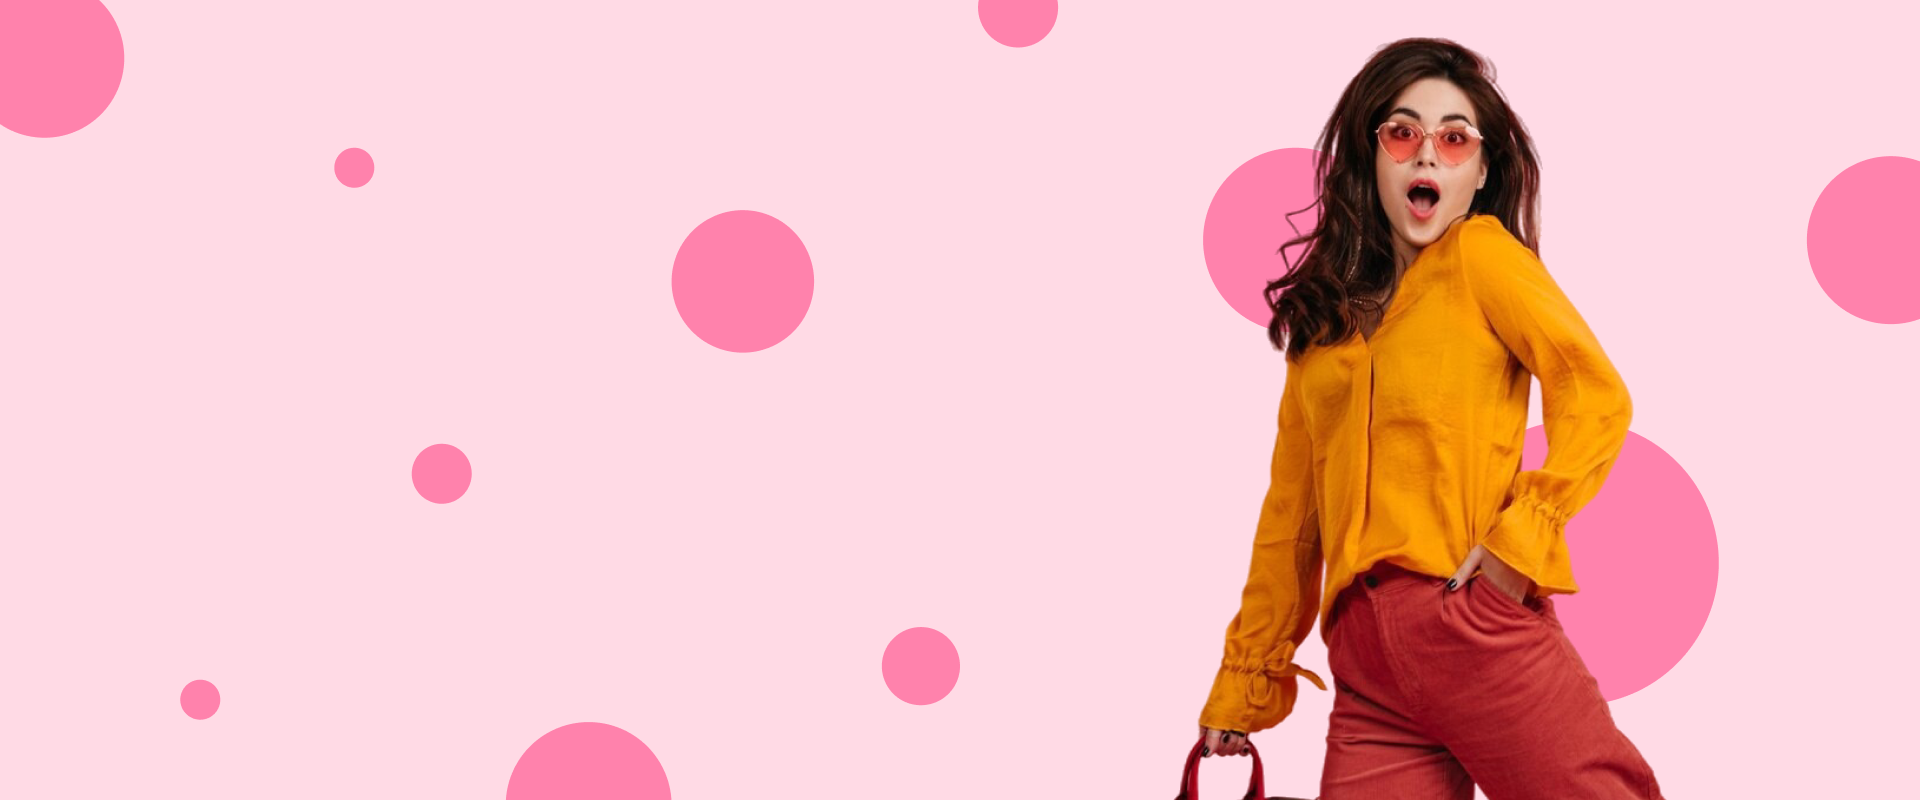
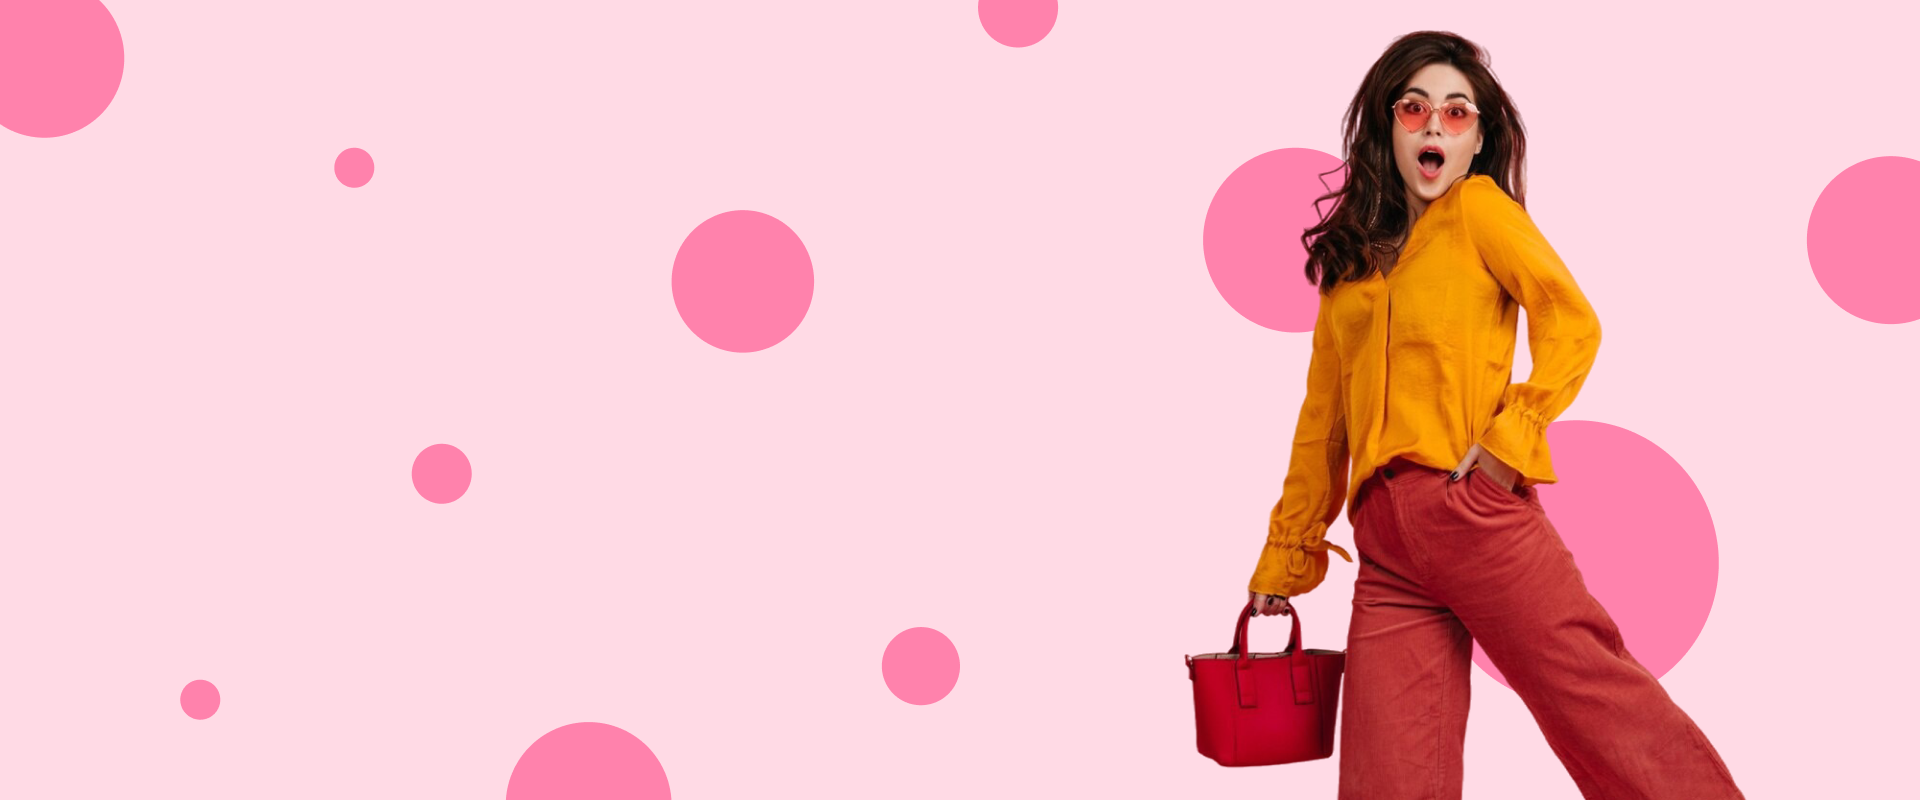
image scroll

Changed region(s): [[0.5938, 0.0312, 0.9062, 1.0]]

diff --git a/Roselle/style.css b/Roselle/style.css
@@ -10,7 +10,7 @@
   --button-text-color: #ffffff;
   --border-color: #eedce3;
 
-  --border-radius-md: 5px;
+  --border-radius-sm: 5px;
 
   --transition-timing: 0.3s ease;
 }
@@ -26,6 +26,7 @@ body {
   font-family: "Poppins", sans-serif;
   overscroll-behavior: contain;
   background-color: var(--bg-color);
+  scroll-behavior: smooth;
 }
 a {
   text-decoration: none;
@@ -47,8 +48,11 @@ button {
   align-items: center;
   justify-content: space-between;
   border-bottom: 1px solid var(--border-color);
-  padding: 1.5rem 6rem;
+  padding: 1rem 6rem;
   width: 100%;
+}
+.header-main {
+  padding: 1.5rem 6rem;
 }
 .social-icons {
   display: flex;
@@ -62,7 +66,7 @@ button {
 }
 .icons ion-icon:hover {
   color: var(--link-color);
-  transform: scale(1.1);
+  transform: scale(1.2);
 }
 .header-alert {
   text-transform: uppercase;
@@ -77,10 +81,14 @@ button {
   border: none;
   color: var(--paragraph-color);
   padding: 5px;
+  background-color: transparent;
   transition: all var(--transition-timing);
+  margin-left: 0.5rem;
+  outline: none;
 }
-.select-container select:hover {
-  color: var(--text-color);
+.select-container select:hover,
+select:focus {
+  color: var(--primary-color);
 }
 
 .logo {
@@ -91,11 +99,13 @@ button {
 }
 .search-feild {
   border: 1px solid var(--border-color);
-  padding: 1rem;
-  border-radius: var(--border-radius-md);
-  width: 20rem;
+  padding: 0.8rem 1rem;
+  border-radius: var(--border-radius-sm);
+  width: 40rem;
   color: var(--paragraph-color);
-  outline: none;
+}
+.search-feild:focus {
+  outline: 1px solid var(--primary-color);
 }
 .search-icon {
   position: absolute;
@@ -133,4 +143,99 @@ button {
   font-size: 0.75rem;
   font-weight: 700;
   color: var(--button-text-color);
+}
+main {
+  margin: 2rem;
+}
+.category-dropdown {
+  display: flex;
+  align-items: center;
+  justify-content: space-between;
+  padding: 0 12rem;
+}
+.category-links {
+  color: var(--paragraph-color);
+  font-weight: 600;
+  text-transform: uppercase;
+}
+
+.image-scroll-section {
+  margin: 2rem 0;
+  overflow-x: auto;
+  scroll-snap-type: x mandatory;
+  -webkit-overflow-scrolling: touch;
+}
+
+.image-container {
+  width: 1200px;
+  margin: 0 auto;
+  display: flex;
+  overflow-x: auto;
+  scroll-snap-type: x mandatory;
+  gap: 2rem;
+}
+
+.image-card {
+  display: flex;
+  align-items: center;
+  height: 30rem;
+  border-radius: 15px;
+  flex: 0 0 100%;
+  scroll-snap-align: start;
+  background-size: cover;
+  background-repeat: no-repeat;
+}
+.card-content {
+  width: 30rem;
+  margin-left: 5rem;
+}
+
+.card-content h3 {
+  font-size: 1.5rem;
+  color: var(--main-color);
+  font-weight: 500;
+  letter-spacing: 2px;
+}
+.card-content h2 {
+  font-size: 3.5rem;
+  color: var(--text-color);
+  text-transform: uppercase;
+  line-height: 1;
+  margin-top: 0.5rem;
+}
+.card-content p {
+  font-size: 1.1rem;
+  font-weight: 500;
+  color: var(--paragraph-color);
+  margin-top: 0.5rem;
+}
+.price {
+  font-size: 1.5rem;
+  font-weight: 700;
+}
+.image-card-1 {
+  background-image: url("./images/hero-bg.png");
+}
+.image-card-2 {
+  background-image: url("./images/hero-bg-2.png");
+}
+.perfume-heading {
+  color: var(--button-text-color) !important;
+}
+.perfume-price {
+  color: var(--border-color) !important;
+}
+.image-card-4 {
+  background-image: url("./images/hero-bg-4.png");
+}
+.shop-btn {
+  padding: 0.6rem 1.4rem;
+  color: var(--button-text-color);
+  background-color: var(--link-color);
+  border-radius: 5px;
+  border: none;
+  margin-top: 0.7rem;
+  font-weight: 700;
+  font-size: 1rem;
+  text-transform: uppercase;
 }

diff --git a/Roselle/index.html b/Roselle/index.html
@@ -50,8 +50,8 @@
         </div>
         <div class="select-container">
           <select name="currency" id="">
-            <option value="rupee">Rupee ₹</option>
             <option value="dollar">USD $</option>
+            <option value="rupee">Rupee ₹</option>
           </select>
           <select name="language" id="">
             <option value="english">English</option>
@@ -91,6 +91,63 @@
         </div>
       </div>
     </header>
+    <main>
+      <section class="category-section">
+        <ul class="category-dropdown">
+          <li><a href="#" class="category-links">Home</a></li>
+          <li><a href="#" class="category-links">Categories</a></li>
+          <li><a href="#" class="category-links">Men's</a></li>
+          <li><a href="#" class="category-links">Women's</a></li>
+          <li><a href="#" class="category-links">Jeweley</a></li>
+          <li><a href="#" class="category-links">perfume</a></li>
+          <li><a href="#" class="category-links">blog</a></li>
+          <li><a href="#" class="category-links">hot offers</a></li>
+        </ul>
+      </section>
+
+      <section class="image-scroll-section">
+        <div class="image-container">
+          <!-- Card 1 (unchanged) -->
+          <div class="image-card image-card-1">
+            <div class="card-content">
+              <h3>Sale Offer</h3>
+              <h2>New Fashion Summer Sale</h2>
+              <p>starting at $ <span class="price">29</span>.99</p>
+              <button class="shop-btn">Shop Now</button>
+            </div>
+          </div>
+
+          <div class="image-card image-card-2">
+            <div class="card-content">
+              <h3>Limited Edition</h3>
+              <h2>Exclusive Winter Collection</h2>
+              <p>starting at $ <span class="price">49</span>.99</p>
+              <button class="shop-btn">Explore</button>
+            </div>
+          </div>
+
+          <div class="image-card image-card-3">
+            <div class="card-content">
+              <h3>Hot Deals</h3>
+              <h2>Trendy Accessories Sale</h2>
+              <p>starting at $ <span class="price">19</span>.99</p>
+              <button class="shop-btn">Grab Now</button>
+            </div>
+          </div>
+
+          <div class="image-card image-card-4">
+            <div class="card-content">
+              <h3>New Arrival</h3>
+              <h2 class="perfume-heading">Elegant Perfume Collection</h2>
+              <p class="perfume-price">
+                starting at $ <span class="price">59</span>.99
+              </p>
+              <button class="shop-btn">Buy Now</button>
+            </div>
+          </div>
+        </div>
+      </section>
+    </main>
   </body>
   <script
     type="module"
